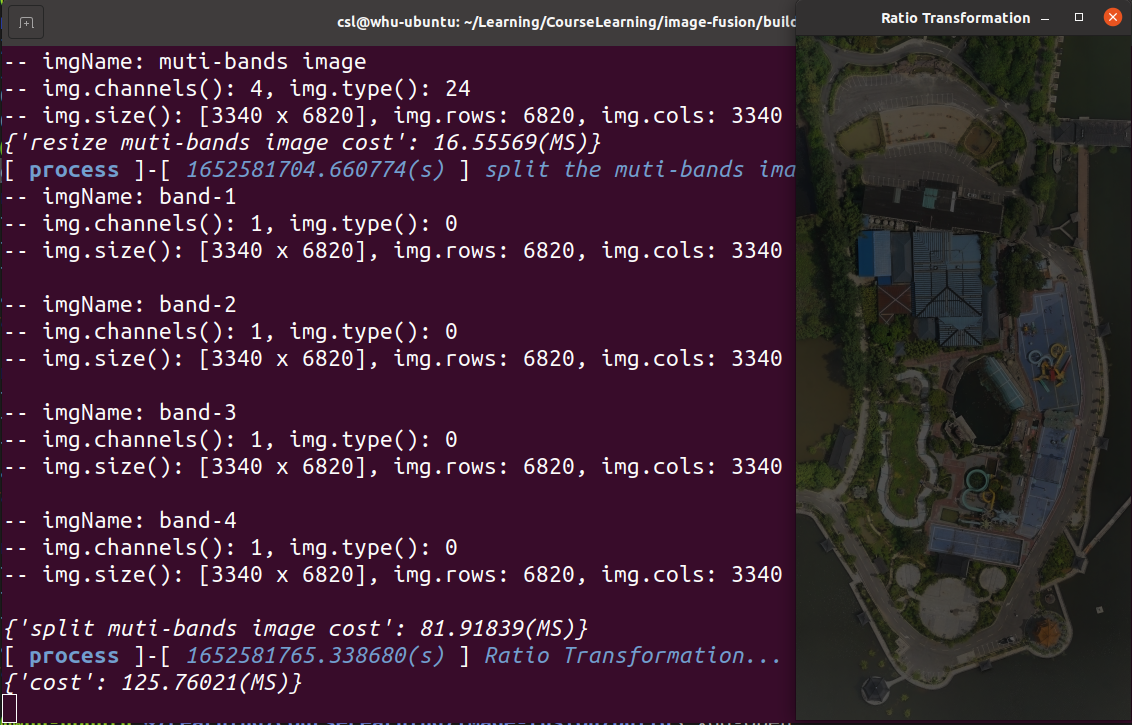
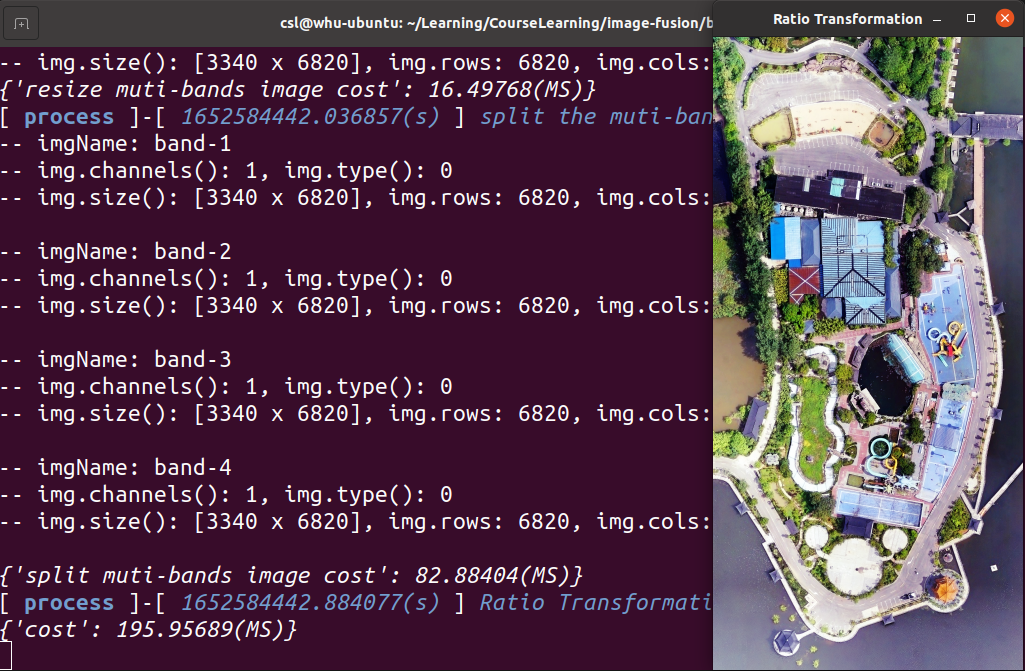
add equalizeHist

diff --git a/image-fusion/src/fusion.cpp b/image-fusion/src/fusion.cpp
@@ -1,5 +1,5 @@
-#include "flags/flags.hpp"
 #include "fusion.h"
+#include "flags/flags.hpp"
 #include "logger/logger.h"
 #include "muti_thread.h"
 #include "timer/timer.h"
@@ -105,6 +105,15 @@ int main(int argc, char const *argv[]) {
       // Ratio Transformation
       ns_log::process("Ratio Transformation...");
       ns_fusion::Fusion::ratioTrans(pImg, bands[0], bands[1], bands[2], &dst);
+
+      // equalizeHist
+      cv::Mat eqBands[3];
+      cv::split(dst, eqBands);
+      cv::equalizeHist(eqBands[0], eqBands[0]);
+      cv::equalizeHist(eqBands[1], eqBands[1]);
+      cv::equalizeHist(eqBands[2], eqBands[2]);
+      cv::merge(eqBands, 3, dst);
+
       ns_fusion::showImg("Ratio Transformation", dst);
     } else if (method == ns_fusion::Fusion::Methods::PRODUCT_TRANS) {
       // Product Transformation

diff --git a/image-fusion/readme.md b/image-fusion/readme.md
@@ -26,6 +26,8 @@ Remote sensing image fusion refers to the process of generating new images from 
 
 <img src="./log/ratio_trans.png" width=60%>
 
+<img src="./log/ratio_trans_noeq.png" width=60%>
+
 <img src="./log/product_trans.png" width=60%>
 
 <img src="./log/weighted_fusion.png" width=60%>
